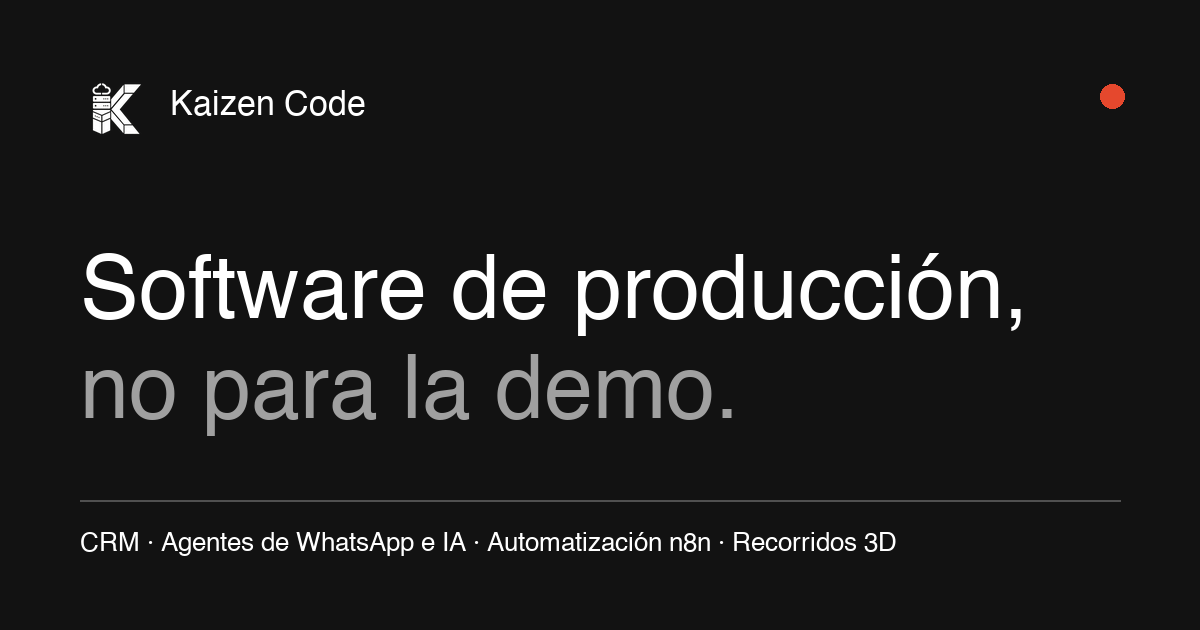
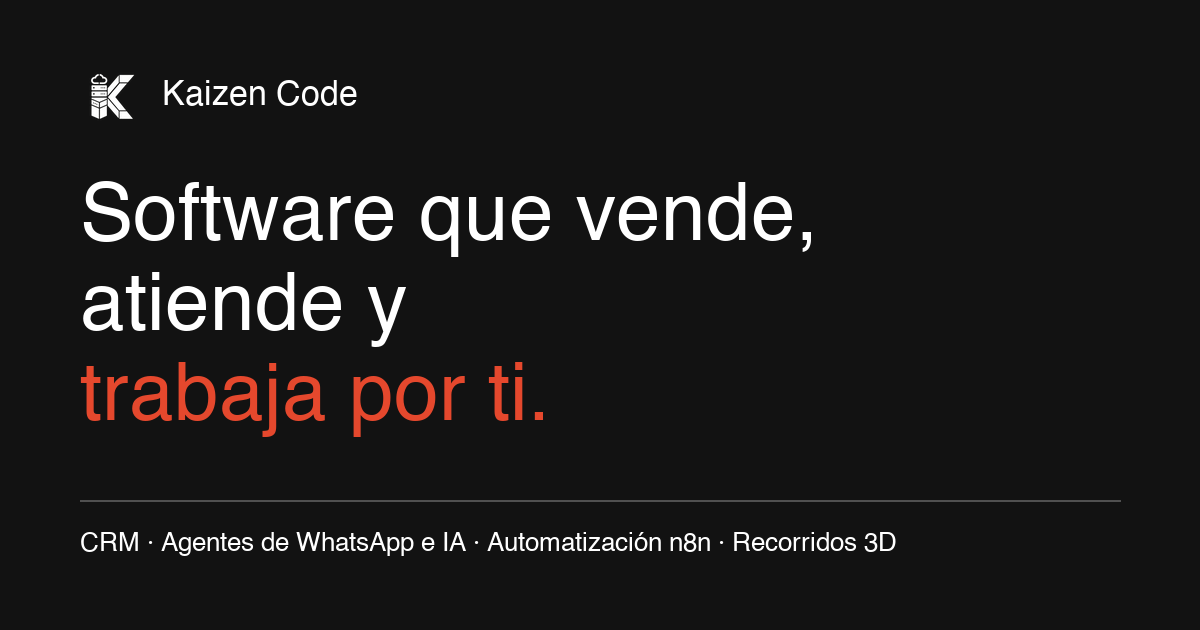
feat: nuevo mensaje principal, fotos de proyectos y perfiles del fundador
- Hero orientado a resultados: "Software que vende, atiende y trabaja por ti"
  con CTA "Cotiza tu proyecto" y "Ver soluciones"
- Fotos editoriales generadas para MultiCarrier, Folio, Atlas, Relay y
  kaizen-stack (WebP, con texto alternativo) en lugar de portadas tipográficas
- LinkedIn, GitHub e Instagram de Oscar en Nosotros y como sameAs en schema
- Título de la home e imagen OG alineados al nuevo mensaje

diff --git a/components/Projects.tsx b/components/Projects.tsx
@@ -2,56 +2,6 @@ import React from 'react';
 import { caseStudy, labProjects, type Project } from '../data/site';
 import { Reveal } from './Reveal';
 
-/**
- * Typographic covers for products without screenshots yet. Each one is a plain
- * colour field with the product name set large and one detail that hints at what
- * it does — no stock imagery, no fake UI.
- */
-const covers: Record<string, { className: string; detail: React.ReactNode }> = {
-  folio: {
-    className: 'bg-paper text-fg',
-    detail: (
-      <div className="w-full max-w-[14rem] space-y-1.5 text-[13px]" aria-hidden="true">
-        {[
-          ['CFDI emitidos', '1,284'],
-          ['Conciliados', '1,279'],
-          ['Pendientes', '5'],
-        ].map(([k, v]) => (
-          <div key={k} className="flex justify-between border-b border-fg/20 pb-1.5">
-            <span>{k}</span>
-            <span className="tabular-nums">{v}</span>
-          </div>
-        ))}
-      </div>
-    ),
-  },
-  atlas: {
-    className: 'bg-accent text-black',
-    detail: (
-      <p className="max-w-[16rem] text-[15px] leading-snug" aria-hidden="true">
-        “La política de reembolsos aplica hasta 30 días.” <span className="align-super text-[11px]">[1]</span>
-      </p>
-    ),
-  },
-  relay: {
-    className: 'bg-ink text-white',
-    detail: (
-      <div className="w-full max-w-[15rem] space-y-2 text-[13px]" aria-hidden="true">
-        <p className="w-fit rounded-2xl rounded-bl-sm bg-white/15 px-3 py-2">¿Tienen cita el jueves?</p>
-        <p className="ml-auto w-fit rounded-2xl rounded-br-sm bg-white px-3 py-2 text-black">Sí, 11:00 o 16:30.</p>
-      </div>
-    ),
-  },
-  'kaizen-stack': {
-    className: 'bg-[#dfe3dc] text-fg',
-    detail: (
-      <p className="font-mono text-[13px]" aria-hidden="true">
-        $ pnpm create kaizen-stack
-      </p>
-    ),
-  },
-};
-
 const Caption: React.FC<{ project: Project }> = ({ project }) => (
   <div className="mt-4">
     <h3 className="text-[15px] font-medium tracking-[0.02em] uppercase">{project.name}</h3>
@@ -62,25 +12,29 @@ const Caption: React.FC<{ project: Project }> = ({ project }) => (
   </div>
 );
 
-const LabItem: React.FC<{ project: Project; delay: number; tall?: boolean }> = ({ project, delay, tall }) => {
-  const cover = covers[project.slug];
-  return (
-    <Reveal delay={delay}>
-      <article>
-        <div
-          className={`flex flex-col justify-between p-6 sm:p-8 ${tall ? 'aspect-[4/5]' : 'aspect-square'} ${cover?.className ?? 'bg-paper'}`}
-        >
-          <p className="text-sm">{project.kind.split(' · ')[1]}</p>
-          <div className="space-y-8">
-            {cover?.detail}
-            <p className="text-[clamp(2rem,3.4vw,3.25rem)] leading-none font-medium tracking-[-0.03em]">{project.name}</p>
-          </div>
-        </div>
-        <Caption project={project} />
-      </article>
-    </Reveal>
-  );
-};
+/** Image with the aspect ratio reserved up front, so nothing shifts while it loads (CLS). */
+const Cover: React.FC<{ project: Project; aspect: string; width: number; height: number }> = ({ project, aspect, width, height }) => (
+  <div className={`${aspect} overflow-hidden bg-paper`}>
+    <img
+      src={project.image}
+      alt={project.imageAlt}
+      width={width}
+      height={height}
+      loading="lazy"
+      decoding="async"
+      className="h-full w-full object-cover transition-transform duration-700 ease-out group-hover:scale-[1.03]"
+    />
+  </div>
+);
+
+const LabItem: React.FC<{ project: Project; delay: number; tall?: boolean }> = ({ project, delay, tall }) => (
+  <Reveal delay={delay}>
+    <article className="group">
+      <Cover project={project} aspect={tall ? 'aspect-[4/5]' : 'aspect-square'} width={1024} height={tall ? 1280 : 1024} />
+      <Caption project={project} />
+    </article>
+  </Reveal>
+);
 
 export const Projects: React.FC = () => {
   const [folio, ...rest] = labProjects;
@@ -98,18 +52,8 @@ export const Projects: React.FC = () => {
 
         <div className="mt-14 grid gap-x-6 gap-y-14 md:grid-cols-2 lg:grid-cols-3">
           <Reveal className="md:col-span-2">
-            <article>
-              <div className="aspect-[16/10] overflow-hidden bg-ink">
-                <img
-                  src={caseStudy.image}
-                  alt="Pantalla de acceso del Portal NOC de MultiCarrier"
-                  width={1600}
-                  height={878}
-                  loading="lazy"
-                  decoding="async"
-                  className="h-full w-full object-cover"
-                />
-              </div>
+            <article className="group">
+              <Cover project={caseStudy} aspect="aspect-[16/10]" width={1536} height={1024} />
               <div className="mt-4 grid gap-6 lg:grid-cols-2">
                 <Caption project={caseStudy} />
                 <ul className="space-y-2 text-[15px] leading-relaxed lg:mt-4">

diff --git a/components/Hero.tsx b/components/Hero.tsx
@@ -1,9 +1,14 @@
 import React from 'react';
+import { ArrowRight } from 'lucide-react';
 
-const commitments = ['Código tuyo desde el día uno.', 'Software funcionando cada dos semanas.', 'Decisiones documentadas.'];
+const outcomes = [
+  { verb: 'Vende', what: 'CRM y recorridos 3D que convierten prospectos en clientes.' },
+  { verb: 'Atiende', what: 'Agentes de WhatsApp y voz que responden 24/7.' },
+  { verb: 'Trabaja', what: 'Automatizaciones que eliminan el trabajo repetitivo.' },
+];
 
 /**
- * Ink block with a statement headline. No entrance animation so above-the-fold
+ * Ink block with an outcome-led headline. No entrance animation so above-the-fold
  * content paints immediately (LCP).
  */
 export const Hero: React.FC = () => (
@@ -12,34 +17,38 @@ export const Hero: React.FC = () => (
       <div>
         {/* Brand + primary keyword, visible and above the H1, for search and context. */}
         <p className="mb-6 text-[15px] text-white/60">Kaizen Code · Desarrollo de software a la medida en México</p>
-        {/* Spans the full width on large screens so the statement stays the page's face. */}
         <h1
           id="hero-title"
-          className="max-w-[17ch] text-[clamp(2.6rem,6.3vw,7.75rem)] leading-[1.02] font-medium tracking-[-0.03em] text-balance lg:max-w-none"
+          className="max-w-[14ch] text-[clamp(2.9rem,7.4vw,8.75rem)] leading-[0.98] font-medium tracking-[-0.035em] text-balance"
         >
-          Somos un estudio de ingeniería que construye software para producción, no para la demo.
+          Software que vende, atiende y <span className="text-accent">trabaja por ti.</span>
         </h1>
-      </div>
 
-      <div className="mt-20 grid gap-12 lg:grid-cols-12 lg:items-end">
-        <ul className="grid gap-4 sm:grid-cols-3 lg:col-span-6" aria-label="Compromisos">
-          {commitments.map((c) => (
-            <li key={c} className="border-t border-white/30 pt-3 text-[15px] leading-snug">
-              {c}
-            </li>
-          ))}
-        </ul>
-
-        <div className="lg:col-span-5 lg:col-start-8">
-          <p className="text-[15px] leading-[1.75] text-white/85">
-            Diseñamos, construimos y operamos plataformas web, APIs e integraciones con IA para empresas cuyo sistema no
-            puede fallar. Trabajamos con tu equipo desde la primera semana, con avances que puedes usar y no sólo ver.
+        <div className="mt-10 grid gap-8 lg:grid-cols-12 lg:items-end">
+          <p className="max-w-xl text-lg leading-[1.6] text-white/80 lg:col-span-6">
+            Creamos CRMs, agentes de WhatsApp con IA, automatizaciones y plataformas a la medida para negocios en México.
+            Tú te enfocas en crecer; el sistema hace el resto.
           </p>
-          <a href="#process" className="link mt-5 inline-block text-[15px]">
-            Conoce cómo trabajamos
-          </a>
+          <div className="flex flex-col gap-3 sm:flex-row lg:col-span-6 lg:justify-end">
+            <a href="#contact" className="btn group bg-white text-black hover:bg-accent">
+              Cotiza tu proyecto
+              <ArrowRight size={16} className="transition-transform group-hover:translate-x-0.5" aria-hidden="true" />
+            </a>
+            <a href="#solutions" className="btn border border-white/40 text-white hover:bg-white hover:text-black">
+              Ver soluciones
+            </a>
+          </div>
         </div>
       </div>
+
+      <ul className="mt-20 grid gap-6 sm:grid-cols-3" aria-label="Qué hace tu software">
+        {outcomes.map((o) => (
+          <li key={o.verb} className="border-t border-white/30 pt-4">
+            <p className="text-[15px] font-medium">{o.verb}</p>
+            <p className="mt-1 text-[15px] leading-snug text-white/70">{o.what}</p>
+          </li>
+        ))}
+      </ul>
     </div>
   </section>
 );

diff --git a/data/site.ts b/data/site.ts
@@ -75,7 +75,8 @@ export interface Project {
   problem: string;
   highlights: string[];
   stack: string[];
-  image?: string;
+  image: string;
+  imageAlt: string;
 }
 
 export const caseStudy: Project = {
@@ -94,7 +95,8 @@ export const caseStudy: Project = {
     'Alertas automatizadas con reglas configurables y escalamiento por severidad.',
   ],
   stack: ['React', 'TypeScript', 'Node.js', 'WebSockets', 'AWS'],
-  image: '/assets/multicarrier-noc.webp',
+  image: '/assets/work/multicarrier.webp',
+  imageAlt: 'Ingeniero frente a una pared de monitores con mapas de red en un centro de operaciones',
 };
 
 /**
@@ -117,6 +119,8 @@ export const labProjects: Project[] = [
       'Integración con PAC detrás de una interfaz propia para cambiar de proveedor.',
     ],
     stack: ['Next.js', 'PostgreSQL', 'Workers', 'CFDI 4.0'],
+    image: '/assets/work/folio.webp',
+    imageAlt: 'Escritorio con facturas impresas, una laptop con hojas de cálculo y una taza de café',
   },
   {
     slug: 'atlas',
@@ -133,6 +137,8 @@ export const labProjects: Project[] = [
       'Suite de evaluaciones que corre en CI antes de cambiar prompts o modelos.',
     ],
     stack: ['Python', 'pgvector', 'Claude API', 'Evals'],
+    image: '/assets/work/atlas.webp',
+    imageAlt: 'Mano tomando una carpeta roja de un archivero con carpetas grises',
   },
   {
     slug: 'relay',
@@ -149,6 +155,8 @@ export const labProjects: Project[] = [
       'Bandeja compartida y métricas de conversión por canal.',
     ],
     stack: ['Node.js', 'WhatsApp Cloud API', 'Redis', 'LLM'],
+    image: '/assets/work/relay.webp',
+    imageAlt: 'Dueña de una panadería respondiendo mensajes en su celular',
   },
   {
     slug: 'kaizen-stack',
@@ -165,6 +173,8 @@ export const labProjects: Project[] = [
       'OpenTelemetry, logs estructurados y ADRs de ejemplo.',
     ],
     stack: ['TypeScript', 'Turborepo', 'Terraform', 'GitHub Actions'],
+    image: '/assets/work/kaizen-stack.webp',
+    imageAlt: 'Escritorio de desarrollador al atardecer con código en el monitor',
   },
 ];
 

diff --git a/index.html b/index.html
@@ -4,7 +4,7 @@
     <meta charset="UTF-8" />
     <meta name="viewport" content="width=device-width, initial-scale=1.0" />
     <!--seo:start-->
-    <title>Kaizen Code — Desarrollo de software a la medida en México</title>
+    <title>Kaizen Code — CRM, WhatsApp con IA y automatización en México</title>
     <meta
       name="description"
       content="Kaizen Code es un estudio de ingeniería de software en México. Desarrollamos CRM a la medida, agentes de WhatsApp e IA, automatizaciones con n8n, recorridos 3D para inmuebles y plataformas web listas para producción."
@@ -12,7 +12,7 @@
     <link rel="canonical" href="https://kaizencode.com.mx/" />
     <meta property="og:type" content="website" />
     <meta property="og:url" content="https://kaizencode.com.mx/" />
-    <meta property="og:title" content="Kaizen Code — Desarrollo de software a la medida en México" />
+    <meta property="og:title" content="Kaizen Code — Software que vende, atiende y trabaja por ti" />
     <meta
       property="og:description"
       content="CRM a la medida, agentes de WhatsApp e IA, automatizaciones con n8n y plataformas web listas para producción."
@@ -57,7 +57,16 @@
             "areaServed": ["MX", "Latinoamérica", "US"],
             "address": { "@type": "PostalAddress", "addressCountry": "MX" },
             "founder": [
-              { "@type": "Person", "name": "Oscar Emiliano Nieto Guerra" },
+              {
+                "@type": "Person",
+                "name": "Oscar Emiliano Nieto Guerra",
+                "jobTitle": "Fundador",
+                "sameAs": [
+                  "https://www.linkedin.com/in/oscar-emiliano-n-b21182139/",
+                  "https://github.com/oenieto",
+                  "https://www.instagram.com/oenieto/"
+                ]
+              },
               { "@type": "Person", "name": "Juan Antonio Sánchez Jiménez" },
               { "@type": "Person", "name": "Mauricio Israel Mondragón Chávez" },
               { "@type": "Person", "name": "Amoxhua Ochoa Contreras" }

diff --git a/pages/AboutPage.tsx b/pages/AboutPage.tsx
@@ -4,13 +4,27 @@ import { Reveal } from '../components/Reveal';
 import { PageHeader } from '../components/PageHeader';
 import { Section, RuledItem } from '../components/Section';
 
-const team = [
+interface Member {
+  name: string;
+  initials: string;
+  role: string;
+  focus: string;
+  bio: string;
+  links?: { label: string; href: string }[];
+}
+
+const team: Member[] = [
   {
     name: 'Oscar Emiliano Nieto Guerra',
     initials: 'ON',
     role: 'Fundador',
     focus: 'Producto, arquitectura e IA aplicada',
     bio: 'Define la arquitectura y la dirección técnica de cada proyecto. Trabaja en el punto donde se cruzan diseño de producto, rendimiento e inteligencia artificial.',
+    links: [
+      { label: 'LinkedIn', href: 'https://www.linkedin.com/in/oscar-emiliano-n-b21182139/' },
+      { label: 'GitHub', href: 'https://github.com/oenieto' },
+      { label: 'Instagram', href: 'https://www.instagram.com/oenieto/' },
+    ],
   },
   {
     name: 'Juan Antonio Sánchez Jiménez',
@@ -109,6 +123,17 @@ export const AboutPage: React.FC = () => {
                 {[m.role, m.focus].filter(Boolean).join(' · ')}
               </p>
               <p className="mt-4 text-[15px] leading-[1.75] text-muted">{m.bio}</p>
+              {m.links && (
+                <ul className="mt-4 flex gap-4 text-[15px]">
+                  {m.links.map((l) => (
+                    <li key={l.label}>
+                      <a href={l.href} target="_blank" rel="noopener noreferrer me" className="link">
+                        {l.label}
+                      </a>
+                    </li>
+                  ))}
+                </ul>
+              )}
             </Reveal>
           ))}
         </div>

diff --git a/data/seo.ts b/data/seo.ts
@@ -19,7 +19,7 @@ export interface RouteMeta {
 const staticRoutes: RouteMeta[] = [
   {
     path: '/',
-    title: 'Kaizen Code — Desarrollo de software a la medida en México',
+    title: 'Kaizen Code — CRM, WhatsApp con IA y automatización en México',
     description:
       'Kaizen Code es un estudio de ingeniería de software en México. Desarrollamos CRM a la medida, agentes de WhatsApp e IA, automatizaciones con n8n, recorridos 3D para inmuebles y plataformas web listas para producción.',
   },
